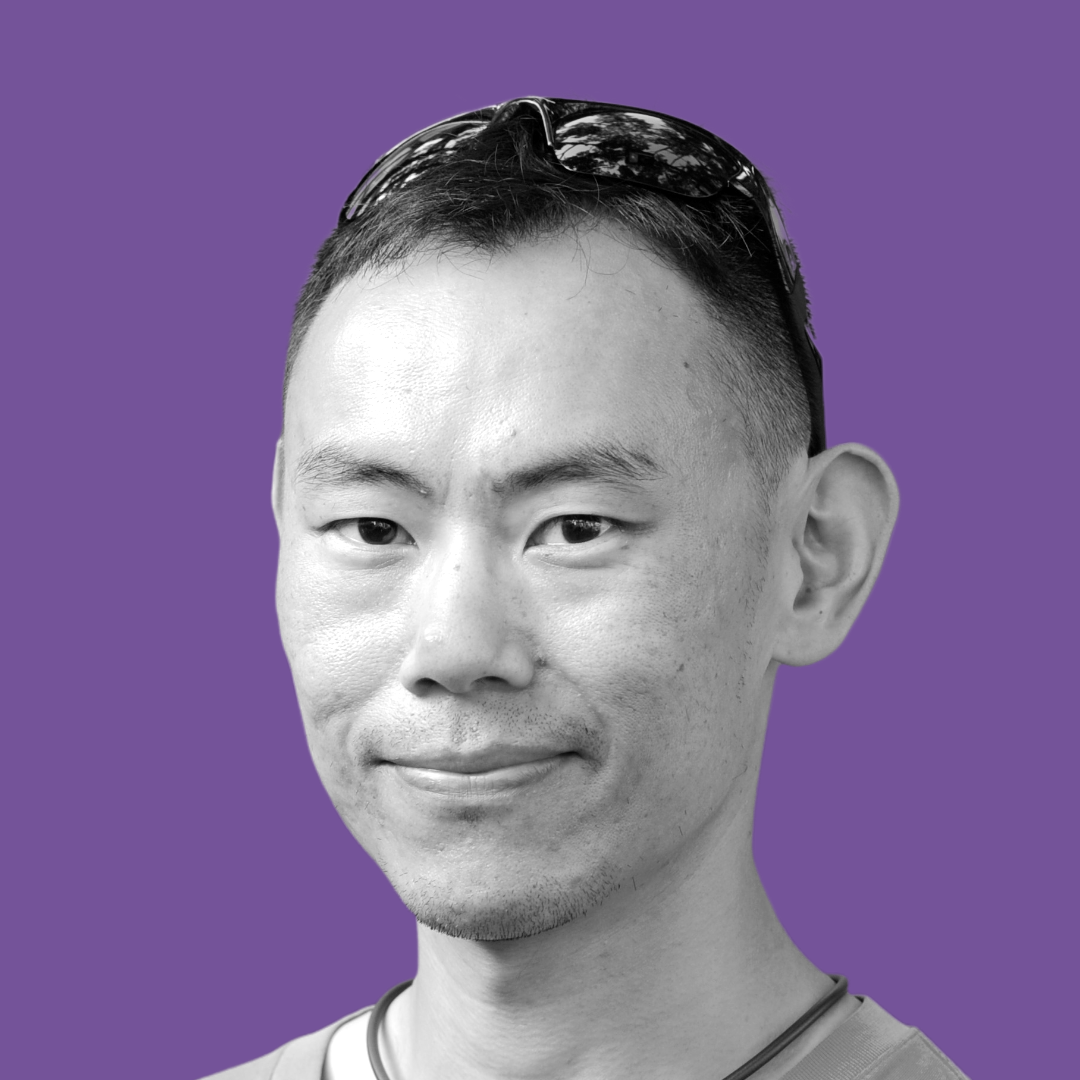
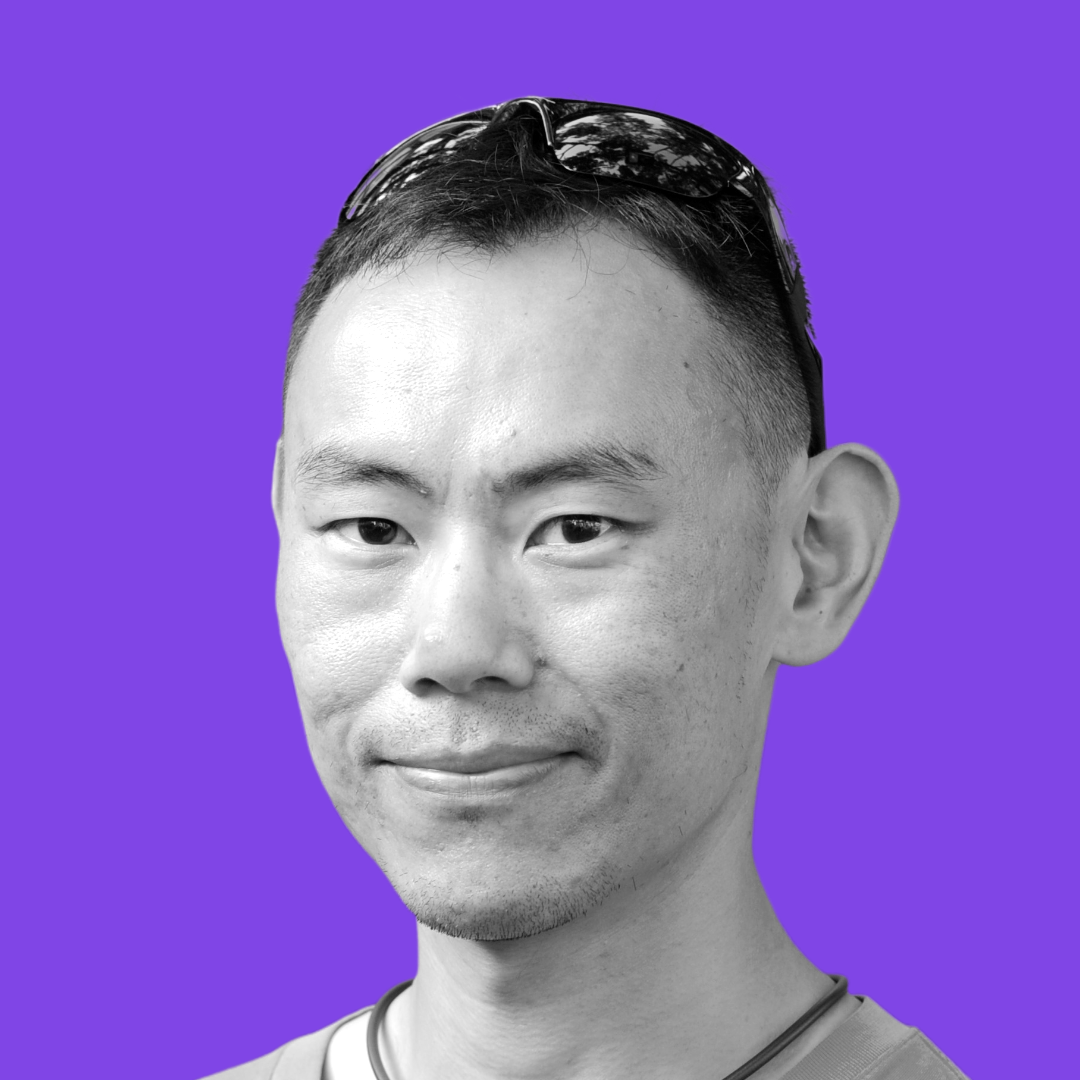
style: update profile image, theme colour, and project card UI

diff --git a/src/app/page.tsx b/src/app/page.tsx
@@ -104,9 +104,9 @@ export default async function Page() {
           <Image
             src={profilePic}
             alt={siteConfig.author}
-            width={96}
-            height={96}
-            className="x:rounded-2xl x:bg-primary-700"
+            width={128}
+            height={128}
+            className="x:rounded-full x:bg-primary-700"
             priority
           />
           <div>

diff --git a/src/app/projects/project-card.tsx b/src/app/projects/project-card.tsx
@@ -18,7 +18,7 @@ export const ProjectCard: React.FC<{ post: PostItem; }> = ({ post }) => {
           />
         </div>
       )}
-      <div className="x-project-content">
+      <div className="x-project-content prose">
         <Link href={route}>
           <h3>{title}</h3>
         </Link>
@@ -26,7 +26,7 @@ export const ProjectCard: React.FC<{ post: PostItem; }> = ({ post }) => {
         {tags.length > 0 && (
           <div className="x:flex x:flex-wrap x:gap-1.5 x:mt-2">
             {tags.map((tag) => (
-              <span key={tag} className="x:px-2 x:py-0.5 x:text-xs x:font-medium x:rounded x:bg-neutral-100 x:dark:bg-neutral-800 x:text-neutral-600 x:dark:text-neutral-400">
+              <span key={tag} className="x-tag">
                 {tag.trim()}
               </span>
             ))}

diff --git a/src/_components/nextra-theme.tsx b/src/_components/nextra-theme.tsx
@@ -30,7 +30,7 @@ export const NextraTheme: FC<{
 }> = ({ children }) => {
   return (
     <html lang="en" className={mainFont.className}>
-      <Head color={{ hue: 268.3, saturation: 29.7, lightness: 46.3 }} backgroundColor={{ dark: "#0f172a", light: "#f5f5f5" }} />
+      <Head color={{ hue: 268, saturation: 76, lightness: 59 }} backgroundColor={{ dark: "#0f172a", light: "#f5f5f5" }} />
       <body>
         <div role="container" className="x-container">
           <Navbar />